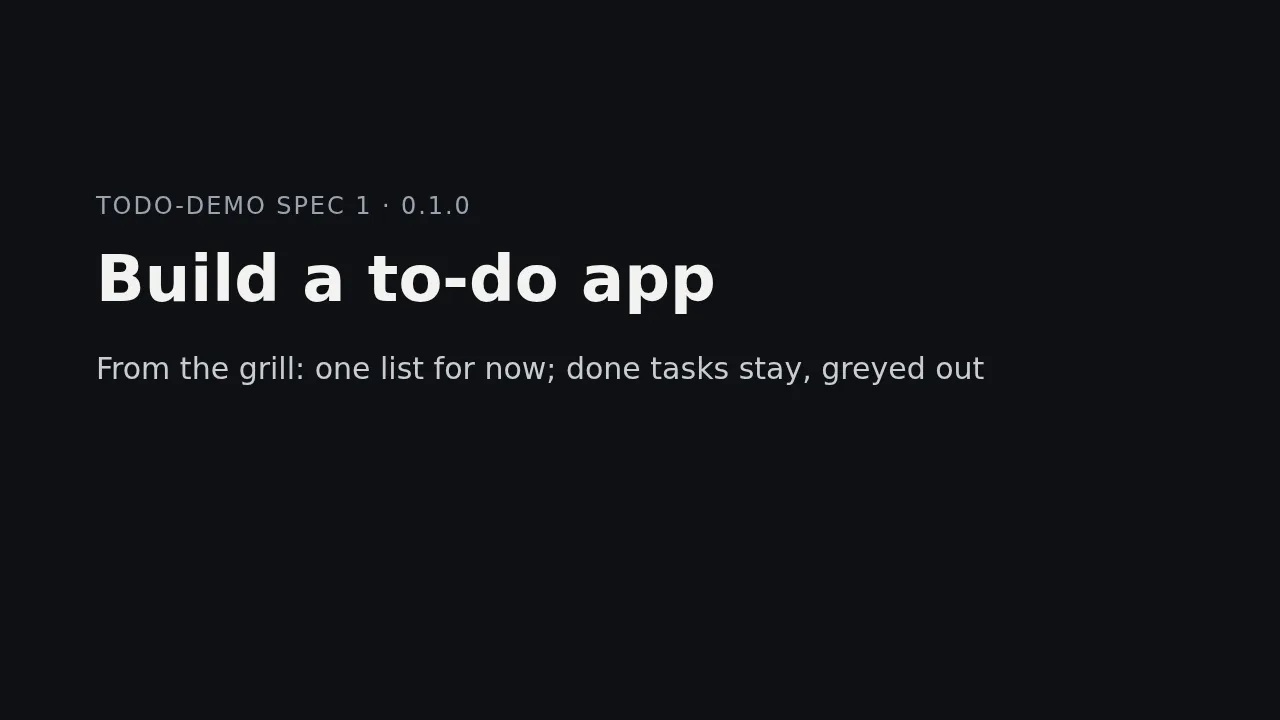
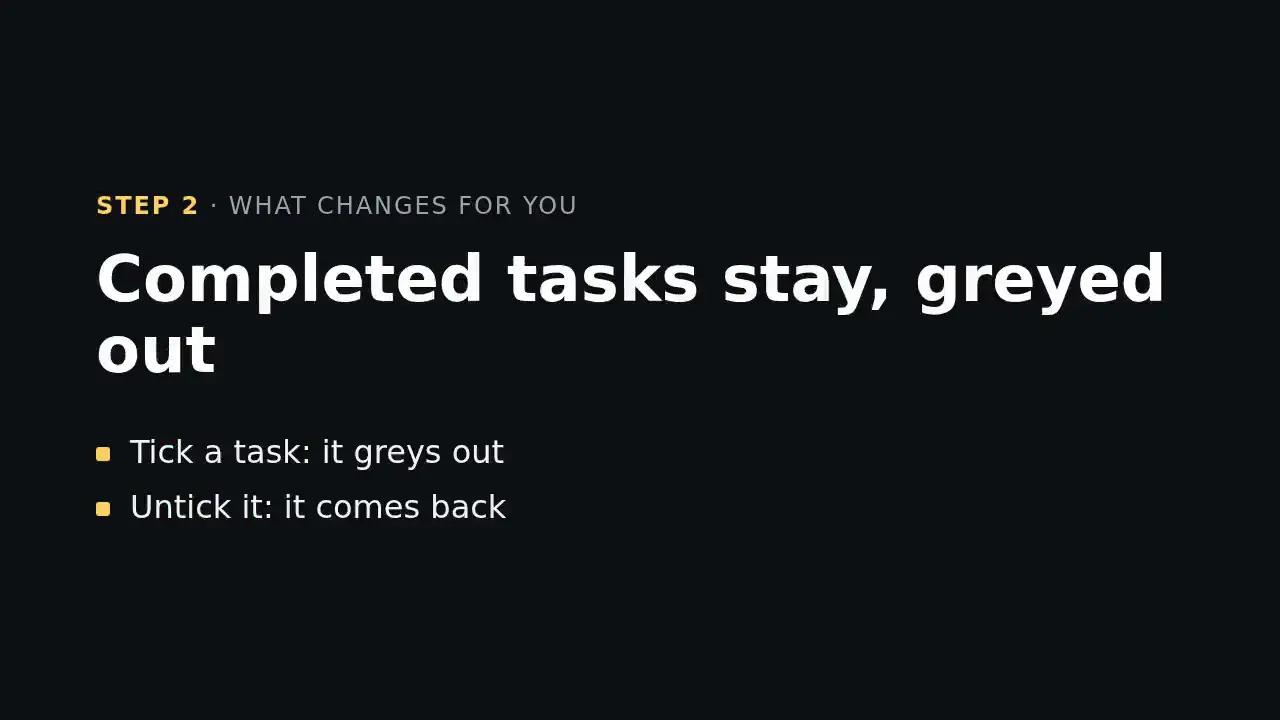
Idea to shipped: clean resting frame, and the real run shown in place
At rest and while it plays muted on its own, the spec video shows only the
slides' band (every slide's text lies in 27-73% of the frame, the crop keeps
20-80%) with captions hidden; it starts on a full slide, the new poster
frame. Play with sound, or a click on the frame, opens the whole 16:9 frame
with captions and native controls. Without the script nothing changes.

The section no longer sends visitors away: step 1 shows the grill's two
real questions and answers as chat bubbles, with the full text in place;
"The spec" opens a static copy of the to-do spec on the page; step 3 shows
a real capture of the live app that opens larger in place. The check now
asserts the real content is present and that the section has no link out.
The unused drivers art test copies the smallest drivers image, so it tests
that rule rather than the art budget's headroom.

diff --git a/index.html b/index.html
@@ -121,7 +121,18 @@
         <li class="moment-step moment-grill">
           <span class="moment-num" aria-hidden="true">1</span>
           <h3>Answer a few questions</h3>
-          <a class="moment-link" href="https://github.com/openwizdev/todo-demo/issues/1#issuecomment-7037022878">The questions</a>
+          <div class="moment-chat" aria-hidden="true"><p class="ask">Where should tasks live?</p><p class="reply">One list for now.</p><p class="ask">Keep completed tasks visible?</p><p class="reply">Yes, greyed out.</p></div>
+          <details class="moment-more">
+            <summary>The questions</summary>
+            <div class="moment-panel grill-panel">
+              <p class="panel-note">The grill behind the to-do app's spec, "Build a to-do app": the questions as asked, with their answers.</p>
+              <p class="ask"><strong>Where should tasks live?</strong> One list holds every task, or tasks sit in several named lists (Work, Home). Several lists need list create, rename and delete, and a way to move between them. <span>Recommended: one list for now.</span></p>
+              <p class="reply">One list for now.</p>
+              <p class="ask"><strong>Keep completed tasks visible?</strong> Completed tasks either disappear from the list, or stay in it marked done. Staying visible lets you see what you did and undo a mistaken tick. <span>Recommended: yes, greyed out.</span></p>
+              <p class="reply">Yes, greyed out.</p>
+              <p class="panel-note">Already settled: tasks are kept after a reload.</p>
+            </div>
+          </details>
         </li>
         <li class="spec-moment">
           <div class="spec-frame">
@@ -131,14 +142,74 @@
             <div class="spec-caption">
               <div class="spec-title"><span class="moment-num" aria-hidden="true">2</span><h3>Watch your spec</h3></div>
               <p class="moment-copy">The real spec of an OpenWiz-built to-do app.</p>
-              <div class="spec-actions"><button class="spec-play" type="button" hidden><svg aria-hidden="true" viewBox="0 0 16 16"><path d="M5 3l8 5-8 5z"/></svg>Play with sound</button><a class="moment-link" href="https://github.com/openwizdev/todo-demo/issues/1">The spec</a><a class="spec-link" href="/art/todo-spec.mp4">The video</a></div>
+              <div class="spec-actions"><button class="spec-play" type="button" hidden><svg aria-hidden="true" viewBox="0 0 16 16"><path d="M5 3l8 5-8 5z"/></svg>Play with sound</button><a class="spec-link" href="/art/todo-spec.mp4">The video</a>
+                <details class="moment-more spec-more">
+                  <summary>The spec</summary>
+                  <article class="moment-panel spec-doc" tabindex="0" aria-label="The to-do app's spec">
+                    <h4>Problem Statement</h4>
+                    <p>You want a simple place to write down what you need to do and tick it off. Nothing here does that yet: the app is a placeholder page.</p>
+                    <h4>Solution</h4>
+                    <p>A to-do app in the browser with <strong>one list for now</strong>. You type a task and add it; it appears in the list. You tick a task to mark it complete: it <strong>stays in the list, greyed out</strong>, and you can untick it. Your tasks are <strong>kept after a reload</strong>. The app is a static page on GitHub Pages, with no account and no server: tasks live in your browser.</p>
+                    <h4>Changelog headline</h4>
+                    <p>A to-do app with one list: add a task, mark it complete (it stays, greyed out), and your tasks are kept after a reload.</p>
+                    <h4>User Stories</h4>
+                    <ol>
+                      <li>As a user, I want to type a task and add it, so that it is in my list.</li>
+                      <li>As a user, I want an empty task to be refused, so that my list holds only real tasks.</li>
+                      <li>As a user, I want to mark a task complete, so that I can see what I have done.</li>
+                      <li>As a user, I want completed tasks to stay in the list, greyed out, so that I can still see them.</li>
+                      <li>As a user, I want to untick a completed task, so that a mistaken tick is easy to undo.</li>
+                      <li>As a user, I want my tasks kept after a reload, so that closing the tab loses nothing.</li>
+                      <li>As a user, I want the app to work on my phone and with the keyboard, so that I can use it anywhere.</li>
+                    </ol>
+                    <h4>Implementation Decisions</h4>
+                    <ul>
+                      <li><strong>One list for now:</strong> no named lists, no list switching. Tasks keep the order they were added in.</li>
+                      <li><strong>The task list, first (contract-first ticket):</strong> <code>app/todos.js</code> is a dependency-free ES module of pure functions that every other ticket builds on. A task is <code>{ id, text, done }</code>. <code>addTask(tasks, text)</code> returns a new array with the trimmed text added at the end, or the same array for blank text; <code>toggleTask(tasks, id)</code> flips <code>done</code>; <code>loadTasks(storage)</code> and <code>saveTasks(storage, tasks)</code> read and write one <code>localStorage</code> key, <code>todo-demo.tasks.v1</code>, as JSON, and a missing or unreadable value loads as an empty list. <code>docs/markup.md</code> fixes the list's markup and class names (the form, the list, one item, its checkbox, and the <code>done</code> state) so the view and the styles agree.</li>
+                      <li><strong>The view:</strong> <code>app/view.js</code> turns tasks into the list's markup as <code>docs/markup.md</code> says, escaping task text.</li>
+                      <li><strong>The page:</strong> <code>app/index.html</code> and <code>app/main.js</code> wire it up: load at start, add on submit, toggle on the checkbox, save after each change, render.</li>
+                      <li><strong>The look:</strong> <code>app/style.css</code>: a calm single column that fits a phone; a completed task greyed out with its text struck through; visible keyboard focus.</li>
+                      <li>No dependencies, no build step. GitHub Pages serves <code>app/</code> after every merge to <code>main</code>.</li>
+                    </ul>
+                    <h4>Testing Decisions</h4>
+                    <ul>
+                      <li><code>npm test</code> (<code>node --test</code>) proves the task list and the view at their module seams: <code>app/todos.js</code> and <code>app/view.js</code>, with an in-memory stand-in for <code>localStorage</code>.</li>
+                      <li>The page itself has no browser test (no dependencies); it is proven by the live check.</li>
+                    </ul>
+                    <h4>Proof</h4>
+                    <table>
+                      <thead><tr><th>Claim</th><th>Proof</th></tr></thead>
+                      <tbody>
+                        <tr><td>P1. Adding a task appends it; blank text adds nothing</td><td><code>tests/todos.test.mjs</code>, red first</td></tr>
+                        <tr><td>P2. Toggling flips one task's <code>done</code> and nothing else</td><td><code>tests/todos.test.mjs</code>, red first</td></tr>
+                        <tr><td>P3. Tasks saved are the tasks loaded; a missing or broken value loads as empty</td><td><code>tests/todos.test.mjs</code>, red first</td></tr>
+                        <tr><td>P4. The view marks completed tasks <code>done</code>, checks their box and escapes text</td><td><code>tests/view.test.mjs</code>, red first</td></tr>
+                        <tr><td>P5. On the live page: add, complete (greyed out), untick, reload keeps them</td><td>The live check below</td></tr>
+                      </tbody>
+                    </table>
+                    <h4>Live check</h4>
+                    <p>On openwizdev.github.io/todo-demo: add two tasks, mark one complete and see it greyed out, reload and see both with the same states, untick it.</p>
+                    <h4>Out of Scope</h4>
+                    <p>Several or named lists, editing or deleting a task, due dates, sync between devices, accounts.</p>
+                    <h4>Further Notes</h4>
+                    <p>Decided in a short grill for "Build a to-do app": its replies are the openwiz.dev landing page's own example answers, recorded as such. Tasks live in one list for now; completed tasks stay visible, greyed out; tasks are kept after a reload, as the landing's spec card says.</p>
+                  </article>
+                </details>
+              </div>
             </div>
           </div>
         </li>
         <li class="moment-step moment-ship">
           <span class="moment-num" aria-hidden="true">3</span>
           <h3>Watch it ship</h3>
-          <a class="moment-link" href="https://openwizdev.github.io/todo-demo/">The live app</a>
+          <img class="moment-thumb" src="/art/todo-app.webp" alt="" width="720" height="623" loading="lazy" decoding="async">
+          <details class="moment-more">
+            <summary>The live app</summary>
+            <figure class="moment-panel app-panel">
+              <img class="app-shot" src="/art/todo-app.webp" alt="The live to-do app: a New task box with an Add button, two ticked tasks greyed out and one still to do." width="720" height="623" loading="lazy" decoding="async">
+              <figcaption>The to-do app as it runs live today, built by the fleet from this spec and served by GitHub Pages at <span>openwizdev.github.io/todo-demo</span>.</figcaption>
+            </figure>
+          </details>
         </li>
       </ol>
     </div>

diff --git a/site.css b/site.css
@@ -182,18 +182,61 @@ code,.v{font-family:var(--ow-font-mono)}
 /* Type: one weight for titles (600), one for links and the play control (500), mono tabular step numbers. */
 .moments h3 { margin: 0; font-size: 18px; font-weight: 600; letter-spacing: -.015em; line-height: 1.3; text-wrap: balance; }
 .moment-num { display: inline-grid; place-items: center; flex: none; width: 28px; height: 28px; border: 1px solid rgb(190 210 240 / 45%); border-radius: 50%; color: #d6e2f5; font: 500 14px/1 var(--ow-font-mono); font-variant-numeric: tabular-nums; }
-/* Steps 1 and 3: one row each, number and title on the left, the real link on the right edge. */
-.moment-step { position: relative; display: flex; align-items: center; gap: 12px; min-height: 56px; padding: 10px 18px 10px 14px; border-radius: 12px; background: rgb(7 11 20 / 82%); box-shadow: 0 0 0 1px rgb(190 210 240 / 16%); }
-.moment-step h3 { margin-right: auto; }
-.moment-link, .spec-link { color: #e9f0fb; font-size: 15px; font-weight: 500; line-height: 1.3; white-space: nowrap; text-decoration: underline 1px; text-decoration-color: rgb(190 210 240 / 50%); text-decoration-skip-ink: auto; text-underline-offset: .3em; }
-.moment-link:hover, .spec-link:hover { text-decoration-color: currentColor; }
-.moment-step .moment-link::after { content: " →"; }
+/* Steps 1 and 3: one row each, number and title on the left, a small real preview (the grill's two questions as chat
+   bubbles, a capture of the live app) and an expander on the right. Everything opens in place on this page: the
+   expander's panel takes the row's full width below it, so visitors never leave the site to see the real run. */
+.moment-step { position: relative; display: flex; flex-wrap: wrap; align-items: center; gap: 10px 16px; min-height: 56px; padding: 8px 18px 8px 14px; border-radius: 12px; background: rgb(7 11 20 / 82%); box-shadow: 0 0 0 1px rgb(190 210 240 / 16%); }
+.moment-step h3 { flex: 1 1 0; min-width: 0; }
+.moment-chat { display: grid; grid-auto-flow: column; grid-template-rows: auto auto; gap: 4px 10px; font-size: 12px; line-height: 1.3; }
+.moment-chat p, .grill-panel .ask, .grill-panel .reply { width: fit-content; margin: 0; padding: 4px 9px; border-radius: 10px 10px 10px 3px; background: rgb(190 210 240 / 10%); color: #d6e2f5; }
+.moment-chat .reply, .grill-panel .reply { justify-self: end; border-radius: 10px 10px 3px 10px; background: #2b3f69; color: #fff; }
+.moment-thumb { display: block; width: auto; height: 76px; border-radius: 6px; box-shadow: 0 0 0 1px rgb(190 210 240 / 24%); filter: brightness(.86); }
+.moment-more > summary { display: block; width: fit-content; margin-left: auto; color: #e9f0fb; font-size: 15px; font-weight: 500; line-height: 1.3; white-space: nowrap; text-decoration: underline 1px; text-decoration-color: rgb(190 210 240 / 50%); text-underline-offset: .3em; cursor: pointer; list-style: none; }
+.moment-more > summary::-webkit-details-marker { display: none; }
+.moment-more > summary::after { content: " ▾"; }
+.moment-more[open] > summary::after { content: " ▴"; }
+.moment-more > summary:hover { text-decoration-color: currentColor; }
+.moment-more > summary:focus-visible { outline: 2px solid var(--orchid); outline-offset: 3px; border-radius: 2px; }
+.moment-more[open] { flex-basis: 100%; }
+.moment-step:has(.moment-more[open]) :is(.moment-chat, .moment-thumb) { display: none; }
+.moment-panel { display: grid; gap: 8px; margin: 10px 0 6px; padding: 14px 16px; border-radius: 10px; background: #0e1628; box-shadow: inset 0 0 0 1px rgb(190 210 240 / 12%); color: #c9d4e6; font-size: 14px; line-height: 1.5; text-align: left; }
+.grill-panel .ask { max-width: 88%; padding: 8px 12px; }
+.grill-panel .ask strong { color: #fff; font-weight: 600; }
+.grill-panel .ask span { display: block; margin-top: 4px; color: #a9b8d0; }
+.grill-panel .reply { padding: 6px 12px; }
+.panel-note { margin: 0; color: #a9b8d0; font-size: 13px; }
+.spec-more { flex: 1 1 auto; }
+.spec-more[open] { flex-basis: 100%; }
+.spec-more > summary { margin-left: 0; }
+.spec-doc { display: block; max-height: min(60vh, 480px); overflow: auto; overscroll-behavior: contain; }
+.spec-doc:focus-visible { outline: 2px solid var(--orchid); outline-offset: 2px; }
+.spec-doc h4 { margin: 16px 0 4px; color: #fff; font-size: 15px; font-weight: 600; }
+.spec-doc h4:first-child { margin-top: 0; }
+.spec-doc p, .spec-doc ul, .spec-doc ol { margin: 0 0 6px; }
+.spec-doc ul, .spec-doc ol { padding-left: 20px; list-style: disc; }
+.spec-doc ol { list-style: decimal; }
+.spec-doc li + li { margin-top: 3px; }
+.spec-doc strong { color: #e9f0fb; font-weight: 600; }
+.spec-doc code { color: #cfe0ff; font-size: .9em; overflow-wrap: anywhere; }
+.spec-doc table { width: 100%; border-collapse: collapse; font-size: 13px; }
+.spec-doc th, .spec-doc td { padding: 6px 8px 6px 0; border-top: 1px solid rgb(190 210 240 / 16%); text-align: left; vertical-align: top; }
+.spec-doc th { color: #e9f0fb; font-weight: 600; }
+.app-panel { justify-items: center; }
+.app-shot { width: min(100%, 420px); height: auto; border-radius: 8px; box-shadow: 0 0 0 1px rgb(190 210 240 / 24%); }
+.app-panel figcaption { color: #a9b8d0; font-size: 13px; text-align: center; text-wrap: balance; }
+.app-panel figcaption span { white-space: nowrap; }
+.spec-link { color: #e9f0fb; font-size: 15px; font-weight: 500; line-height: 1.3; white-space: nowrap; text-decoration: underline 1px; text-decoration-color: rgb(190 210 240 / 50%); text-decoration-skip-ink: auto; text-underline-offset: .3em; }
+.spec-link:hover { text-decoration-color: currentColor; }
 /* Step 2, the clip: the caption sits in the same card, directly below the video. */
 .spec-frame { position: relative; overflow: hidden; border-radius: 14px; background: #0b111c; box-shadow: 0 0 0 1px rgb(190 210 240 / 22%), 0 30px 80px -20px rgb(0 0 0 / 85%), 0 0 120px rgb(80 120 200 / 18%); }
 .spec-video { display: block; width: 100%; height: auto; aspect-ratio: 16 / 9; object-fit: cover; background: #0b111c; }
 .spec-video:not([controls]) { cursor: pointer; }
 .spec-video:focus-visible { outline: 2px solid var(--orchid); outline-offset: -2px; }
 .spec-video::cue { color: #fff; background: rgba(15, 17, 21, .85); }
+/* At rest and while it plays muted on its own (this script only), the frame shows just the slides' band: every slide's
+   text lies between 27% and 73% of its height, so cropping to 20-80% never cuts it, and the captions stay hidden.
+   Once the visitor plays it, the whole 16:9 frame returns with captions in its top band and controls in its bottom. */
+.spec-frame.is-ambient .spec-video { aspect-ratio: 1280 / 432; }
 .spec-caption { display: grid; gap: 6px; padding: clamp(14px, 1.6vw, 18px) clamp(16px, 2.4vw, 28px) clamp(16px, 2vw, 24px); background: #0b111c; }
 /* Once the visitor takes over (or without this site's script) the native controls show and the button goes. */
 .spec-video[controls] + .spec-caption .spec-play { display: none; }
@@ -207,16 +250,20 @@ code,.v{font-family:var(--ow-font-mono)}
 .spec-play[hidden] { display: none; }
 .spec-play svg { width: 14px; height: 14px; flex: none; fill: currentColor; }
 @media (max-width: 900px) {
+  .moment-chat { display: none; }
   .moment-stage { --moment-shade: linear-gradient(rgb(30 40 64) 0 16%, rgb(255 255 255 / 0%) 34% 56%, rgb(30 40 64) 74%); }
 }
 @media (max-width: 600px) {
   .spec-caption { padding: 12px 14px 14px; gap: 4px; }
   .spec-actions { gap: 6px 14px; margin-top: 4px; }
   .moments .spec-play { min-height: 40px; padding: 0 14px 0 10px; font-size: 14px; }
-  .moment-step { gap: 10px; min-height: 52px; padding: 8px 14px 8px 12px; }
+  .moment-step { gap: 8px 10px; min-height: 52px; padding: 8px 12px; }
+  .moment-thumb { height: 60px; }
+  .moment-more > summary { font-size: 14px; }
+  .moment-panel { padding: 12px; font-size: 13.5px; }
   .moments h3 { font-size: 15px; }
   .spec-title h3 { font-size: 17px; }
-  .moment-link, .spec-link, .moment-copy { font-size: 14px; }
+  .spec-link, .moment-copy { font-size: 14px; }
   .moment-num { width: 26px; height: 26px; }
 }
 @media (max-width: 480px) {

diff --git a/site.js b/site.js
@@ -249,8 +249,9 @@ function enableMotion(gsap) {
 // The "Watch your spec" moment (#1405). The video loads only when it first plays. With motion it plays muted while it
 // is in view; with reduced motion, Pause motion or the tab hidden it waits on its poster. It never starts with sound on
 // its own: "Play with sound" (or a click on the frame) does that on request, and from then on the visitor drives it
-// and scrolling no longer starts or stops it. Until then the frame stays clean: the native controls, there for visitors
-// without this script, come back only once the visitor takes over. It needs only this script, not GSAP.
+// and scrolling no longer starts or stops it. Until then the frame stays clean: it shows only the slides' band, with no
+// captions and no controls; the whole frame, its captions and the native controls (there for visitors without this
+// script) come back once the visitor takes over. It needs only this script, not GSAP.
 function specVideo() {
   const video = document.querySelector('.spec-video');
   const sound = document.querySelector('.spec-play');
@@ -260,6 +261,14 @@ function specVideo() {
   let inView = false;
   let visitor = false; // the visitor has taken over playback
   let ours = 0; // play and pause events we caused, not the visitor
+  const frame = video.closest('.spec-frame');
+  const track = video.textTracks[0];
+  const resting = on => {
+    frame?.classList.toggle('is-ambient', on);
+    video.controls = !on;
+    if (track) track.mode = on ? 'hidden' : 'showing';
+  };
+  const takeOver = () => { visitor = true; resting(false); };
   const update = () => {
     if (visitor) return;
     const ambient = inView && !calm.matches && pause.getAttribute('aria-pressed') !== 'true' && !document.hidden;
@@ -274,20 +283,21 @@ function specVideo() {
   };
   const take = () => {
     if (ours > 0) ours -= 1;
-    else visitor = true;
+    else takeOver();
   };
   video.addEventListener('play', take);
   video.addEventListener('pause', take);
-  video.addEventListener('volumechange', () => { if (!video.muted) visitor = true; });
+  video.addEventListener('volumechange', () => { if (!video.muted) takeOver(); });
   new IntersectionObserver(([entry]) => { inView = entry.isIntersecting; update(); }, { threshold: .5 }).observe(video);
   calm.addEventListener('change', update);
   document.addEventListener('visibilitychange', update);
   pause.addEventListener('click', () => setTimeout(update));
-  video.controls = false;
+  resting(true);
+  // The muted loop starts on the poster's own frame (a full slide), so the poster hands over without a jump.
+  video.addEventListener('loadedmetadata', () => { if (!visitor) video.currentTime = 17.5; }, { once: true });
   sound.hidden = false;
   const listen = () => {
-    visitor = true;
-    video.controls = true;
+    takeOver();
     video.muted = false;
     video.loop = false;
     video.currentTime = 0;

diff --git a/scripts/check.py b/scripts/check.py
@@ -9,12 +9,14 @@ import subprocess
 from urllib.parse import unquote, urlsplit
 
 ROOT = Path(__file__).resolve().parents[1]
-# J267: the landing's three moments link the real to-do run, in moment order: its grill, its spec, the live app.
-TODO_LINKS = (
-    'https://github.com/openwizdev/todo-demo/issues/1#issuecomment-7037022878',
-    'https://github.com/openwizdev/todo-demo/issues/1',
-    'https://openwizdev.github.io/todo-demo/',
+# The landing's three moments show the real to-do run in place, in moment order: its grill's questions and answers, its
+# spec (a static copy of openwizdev/todo-demo issue 1) and the live app's capture. Each moment must carry these texts.
+TODO_RUN = (
+    ('Where should tasks live?', 'One list for now.', 'Keep completed tasks visible?', 'Yes, greyed out.'),
+    ('Problem Statement', 'As a user, I want an empty task to be refused', 'todo-demo.tasks.v1', 'Out of Scope'),
+    ('openwizdev.github.io/todo-demo',),
 )
+TODO_APP = '/art/todo-app.webp'
 # Reviewed artwork and the spec video. Pin them after checking the visual content and metadata.
 ART_HASHES = {
[1 lines of base64/hex data omitted]
@@ -40,8 +42,10 @@ ART_HASHES = {
     # The landing's spec video (#70, J267): the to-do app's real spec (openwizdev/todo-demo #1), narrated with captions,
     # its poster and captions; local voice, no paid service; every frame privacy-scanned.
[4 lines of base64/hex data omitted]
+    # Step 3's real capture of the live to-do app (openwizdev.github.io/todo-demo), shown small and opened in place.
[1 lines of base64/hex data omitted]
     # OpenWiz's model config spec video (#1802), off the landing (J267) but still served at its URL for #1802's links.
[1 lines of base64/hex data omitted]
     # The model config video's poster frame and captions (#1405), still served for OpenWiz #1802's links (J267).
@@ -496,9 +500,6 @@ def check_ref(root, source, ref, pages, favicons=()):
         assert ref in ('/favicon.ico', '/favicon.svg', '/app/icon.ico', '/app/icon.svg'), 'unexpected favicon'
     url = urlsplit(ref)
     if url.scheme or url.netloc:
-        # The to-do run the landing's moments follow (J267): only its exact grill, spec and live app links.
-        if ref in TODO_LINKS:
-            return
         assert url.scheme == 'https' and url.netloc == 'github.com', 'unexpected external URL'
         assert re.match(r'^/openwizdev/(?:openwiz|OpenWiz|WizSkills|WizPlugins)(?:/|$)', url.path), 'unexpected repository link'
         assert not url.username and not url.password and not url.query, 'unexpected external URL parts'
@@ -605,15 +606,21 @@ def check_site(root):
     captions = re.findall(r'<h3>([^<]+)</h3>', landing)
     assert tuple(captions) == moments, 'the three moments must appear in order'
     assert 'The real spec of an OpenWiz-built to-do app' in flat, 'the spec video must say it is the to-do app\'s real spec'
-    # J267: the three moments point at the real to-do run: its grill, its spec and the live app.
-    hrefs = {}
-    # Comments hide markup from visitors, so a commented-out card or link counts as missing.
+    # The three moments show the real to-do run on this page and never send the visitor away for it: no link out.
     section = re.search(r'<section class="moments[\s\S]*?</section>', re.sub(r'<!--.*?-->', '', landing, flags=re.S))
-    for block in re.findall(r'<li[^>]*>.*?</li>', section[0] if section else '', re.S):
-        found = Page(block)
-        hrefs[re.search(r'<h3>([^<]+)</h3>', block)[1]] = {a.get('href') for a in found.links}
-    for card, link in zip(moments, TODO_LINKS):
-        assert link in hrefs.get(card, ()), f'the {card} moment must link the real to-do run: {link}'
+    section = section[0] if section else ''
+    assert not re.search(r'href="(?!/)', section), 'the moments must keep visitors on the site: no link out'
+    blocks = {}
+    # Comments hide markup from visitors, so a commented-out moment or text counts as missing.
+    for block in re.findall(r'<li class="(?:moment-step|spec-moment)[^"]*">.*?</(?:details|div)>\s*</li>', section, re.S):
+        blocks[re.search(r'<h3>([^<]+)</h3>', block)[1]] = Text(block).spaced()
+    for card, texts in zip(moments, TODO_RUN):
+        for text in texts:
+            assert text in blocks.get(card, ''), f'the {card} moment must show the real to-do run in place: {text}'
+    # The live app is shown as its pinned real capture, described, inside step 3.
+    ship = re.search(r'<li class="moment-step moment-ship">.*?</li>', section, re.S)
+    shot = next((i for i in Page(ship[0]).images if i.get('src') == TODO_APP and (i.get('alt') or '').strip()), None) if ship else None
+    assert shot, f'the Watch it ship moment lost its described capture of the live app: {TODO_APP}'
     # Owner cuts (round 6): obvious notes stay off the page.
     for text in ('Illustration, not live data', 'Building in public'):
         assert text.lower() not in flat.lower(), f'cut copy is back: {text}'

diff --git a/scripts/test_check.py b/scripts/test_check.py
@@ -188,15 +188,16 @@ class Checks(unittest.TestCase):
                 (lambda t: t.replace('<h3>Watch your spec</h3>', '<h3>Watch it ship</h3>'), 'three moments'),
                 (lambda t: t.replace('<h3>Watch it ship</h3>', '<h3>Approve the plan</h3><h3>Watch it ship</h3>'), 'three moments'),
                 (lambda t: t.replace('The real spec of an OpenWiz-built to-do app', 'A sample spec'), "to-do app's real spec"),
-                # Catches: a moment that loses, comments out or mistargets its link to the real to-do run (J267).
-                (lambda t: t.replace('<a class="moment-link" href="https://github.com/openwizdev/todo-demo/issues/1#issuecomment-7037022878">The questions</a>', ''), 'Answer a few questions moment must link'),
-                (lambda t: t.replace('issuecomment-7037022878', 'issuecomment-7037022879'), 'unexpected repository link'),
-                (lambda t: t.replace('<a class="moment-link" href="https://github.com/openwizdev/todo-demo/issues/1">The spec</a>', '<!-- <a class="moment-link" href="https://github.com/openwizdev/todo-demo/issues/1">The spec</a> -->'), 'Watch your spec moment must link'),
-                (lambda t: t.replace('<a class="moment-link" href="https://openwizdev.github.io/todo-demo/">The live app</a>', ''), 'Watch it ship moment must link'),
-                (lambda t: t.replace('https://openwizdev.github.io/todo-demo/', 'https://openwizdev.github.io/other/'), 'unexpected external URL'),
-                (lambda t: t.replace('https://github.com/openwizdev/todo-demo/issues/1"', 'https://github.com/openwizdev/todo-demo/issues/2"'), 'unexpected repository link'),
-                (lambda t: re.sub(r'(<li class="moment-step moment-grill">.*?</li>)', r'<!-- \1 -->', t, count=1, flags=re.S), 'Answer a few questions moment must link'),
-                (lambda t: re.sub(r'(<li class="moment-step moment-ship">.*?</li>)', r'<!-- \1 -->', t, count=1, flags=re.S), 'Watch it ship moment must link'),
+                # Catches: a moment that loses or comments out the real to-do run it shows in place, or a link out of the section.
+                (lambda t: t.replace('<p class="reply">Yes, greyed out.</p>', '<p class="reply">Yes.</p>'), 'Answer a few questions moment must show'),
+                (lambda t: t.replace('<h4>Problem Statement</h4>', '<!-- <h4>Problem Statement</h4> -->'), 'Watch your spec moment must show'),
+                (lambda t: t.replace('todo-demo.tasks.v1', 'tasks'), 'Watch your spec moment must show'),
+                (lambda t: re.sub(r'(<li class="moment-step moment-grill">.*?</li>)', r'<!-- \1 -->', t, count=1, flags=re.S), 'Answer a few questions moment must show'),
+                (lambda t: re.sub(r'(<li class="moment-step moment-ship">.*?</li>)', r'<!-- \1 -->', t, count=1, flags=re.S), 'Watch it ship moment must show|described capture'),
+                (lambda t: re.sub(r'<img class="app-shot"[^>]*>', '', t), 'described capture of the live app'),
+                (lambda t: t.replace('class="app-shot" src="/art/todo-app.webp" alt="The', 'class="app-shot" src="/art/todo-app.webp" alt=" " data-x="'), 'described capture of the live app'),
+                (lambda t: t.replace('<summary>The spec</summary>', '<summary>The spec</summary><a href="https://github.com/openwizdev/openwiz">x</a>'), 'keep visitors on the site'),
+                (lambda t: t.replace('<summary>The live app</summary>', '<summary><a href="https://openwizdev.github.io/todo-demo/">The live app</a></summary>'), 'keep visitors on the site|unexpected external URL'),
                 (lambda t: t.replace('</main>', '<p>Add a dark mode toggle</p></main>'), 'old example'),
                 (lambda t: t.replace('Oil painting of Wiz scholars studying a to-do list', ''), 'painting without a description')):
             with self.subTest(error=error), tempfile.TemporaryDirectory() as temp:
@@ -797,8 +798,9 @@ class Checks(unittest.TestCase):
         with tempfile.TemporaryDirectory() as temp:
             root = Path(temp) / 'dist'
             shutil.copytree(ROOT / 'dist', root)
-            (root / 'art/drivers-x-unused.webp').write_bytes((root / 'art/drivers-c-boat.webp').read_bytes())
[1 lines of base64/hex data omitted]
+            # The smallest pinned drivers picture, so the copy tests the unused-art rule rather than the art budget's headroom.
+            (root / 'art/drivers-x-unused.webp').write_bytes((root / 'art/drivers-d-sea.webp').read_bytes())
[1 lines of base64/hex data omitted]
                     mock.patch('check.ART', set(__import__('check').ART) | {'art/drivers-x-unused.webp'}), \
                     mock.patch('check.STATIC', set(__import__('check').STATIC) | {'art/drivers-x-unused.webp'}), \
                     self.assertRaisesRegex(AssertionError, 'unused drivers art'):
